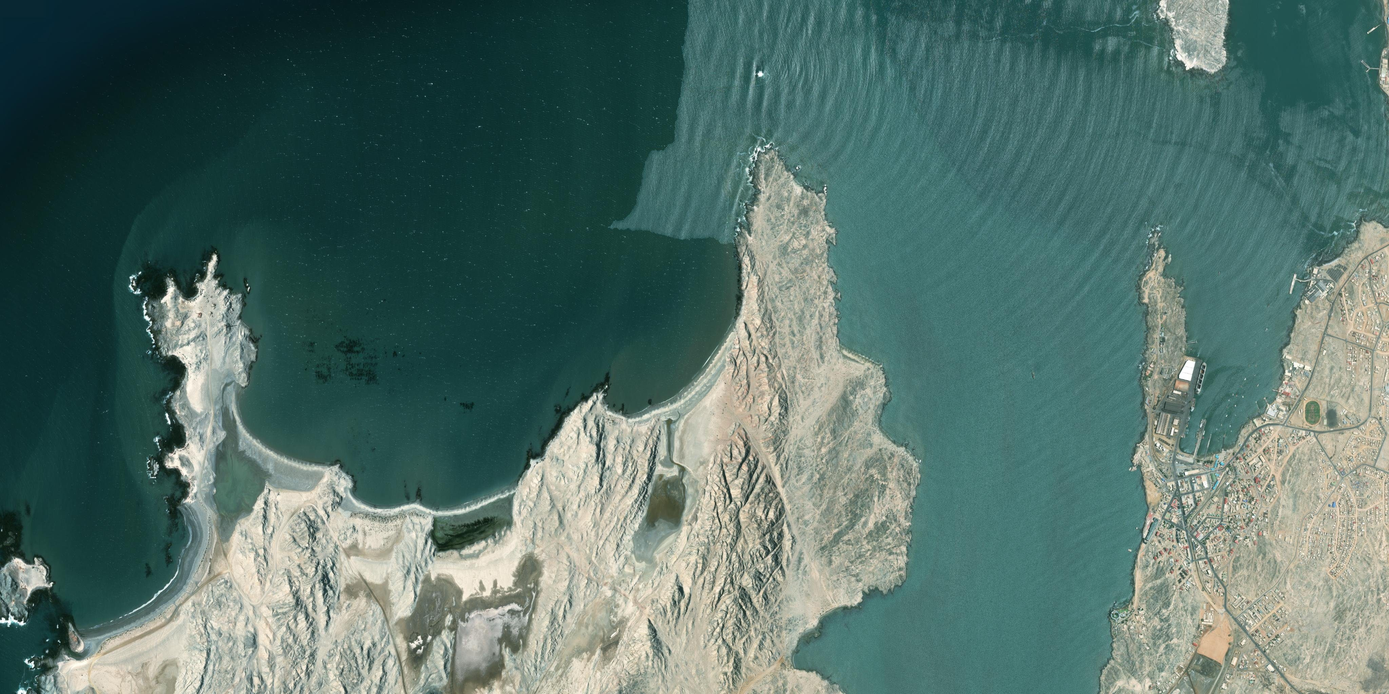
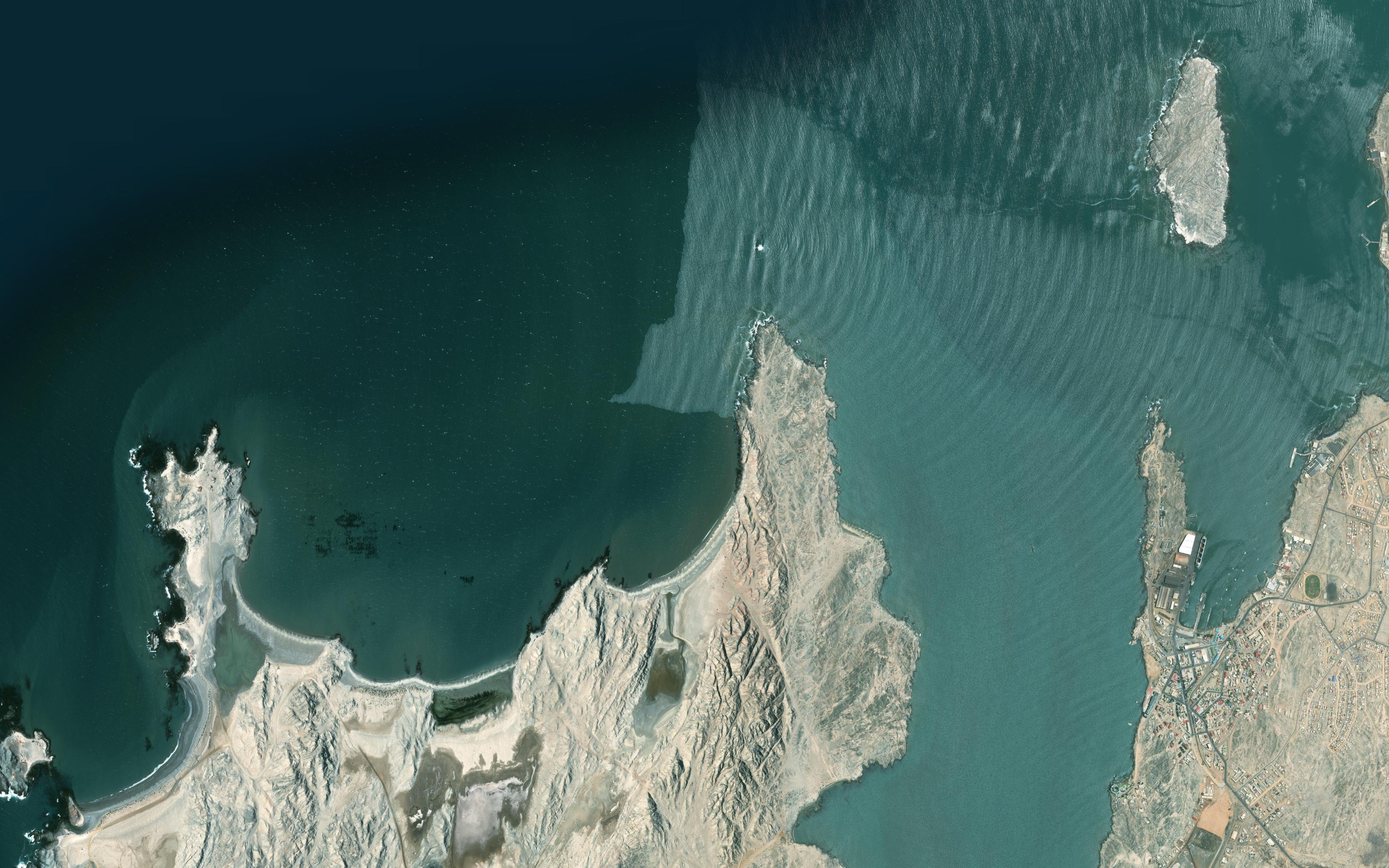
Sonar viewer: start view centred on Kelp Blue with Shearwater Bay behind, landmark labels (Lüderitz, Shark Island, Penguin Island, Diaz Point, Namib Desert), wide image extended north

diff --git a/public/missions/namibia-2026/sonar/index.html b/public/missions/namibia-2026/sonar/index.html
@@ -255,13 +255,18 @@ function dzcol(d){if(d>0){const t=Math.min(1,d/2.5);return[.55+.45*t,.55-.35*t,.
    const [x0,z0]=P(m.n,m.w),[x1,z1]=P(m.s,m.e);areaPlane.scale.set(x1-x0,z1-z0,1);areaPlane.position.set((x0+x1)/2,-0.05,(z0+z1)/2);
    // place labels: minimal pin (thin black stick, small ball on top), white name in Inter Tight (NODE brand), lime caption in JetBrains Mono, no outlines
    const drawPlace=p=>{const c=document.createElement('canvas');c.width=1024;c.height=256;const g=c.getContext('2d');
-    g.strokeStyle='#111';g.lineWidth=5;g.lineCap='round';g.beginPath();g.moveTo(30,56);g.lineTo(30,250);g.stroke();
-    g.beginPath();g.arc(30,40,15,0,7);g.fillStyle='#111';g.fill();
-    g.font='600 64px "Inter Tight",Inter,Helvetica,Arial';g.fillStyle='#fff';g.fillText(p.name,66,96);
-    g.font='700 34px "JetBrains Mono",ui-monospace,monospace';if('letterSpacing' in g)g.letterSpacing='4px';g.fillStyle=NODE_ACCENT;g.fillText((p.sub||'').toUpperCase(),68,146);
+    if(p.pin===false){ // area name (a desert, a region): spaced capitals, no pin, centred on the spot
+     g.font='500 54px "Inter Tight",Inter,Helvetica,Arial';if('letterSpacing' in g)g.letterSpacing='14px';g.fillStyle='rgba(255,255,255,.92)';g.textAlign='center';g.fillText(p.name.toUpperCase(),512,148);
+     const sp=new THREE.Sprite(new THREE.SpriteMaterial({map:new THREE.CanvasTexture(c),depthTest:false,transparent:true,sizeAttenuation:false}));
+     const h=.1*(+p.size||1);sp.scale.set(h*4,h,1);sp.center.set(.5,.5);sp.renderOrder=12;const [x,z]=P(p.lat,p.lon);sp.position.set(x,0.3,z);sp.userData={near:+p.near||0};places.add(sp);return [x,z]}
+    const L=p.side==='left',px=L?994:30; // side 'left': text to the left of the pin (when two places line up)
+    g.strokeStyle='#111';g.lineWidth=5;g.lineCap='round';g.beginPath();g.moveTo(px,56);g.lineTo(px,250);g.stroke();
+    g.beginPath();g.arc(px,40,15,0,7);g.fillStyle='#111';g.fill();g.textAlign=L?'right':'left';
+    g.font='600 64px "Inter Tight",Inter,Helvetica,Arial';g.fillStyle='#fff';g.fillText(p.name,L?958:66,96);
+    g.font='700 34px "JetBrains Mono",ui-monospace,monospace';if('letterSpacing' in g)g.letterSpacing='4px';g.fillStyle=NODE_ACCENT;if(p.sub)g.fillText(p.sub.toUpperCase(),L?956:68,146);
     const sp=new THREE.Sprite(new THREE.SpriteMaterial({map:new THREE.CanvasTexture(c),depthTest:false,transparent:true,sizeAttenuation:false}));
     const h=.1*(+p.size||1);sp.scale.set(h*4,h,1);
-    sp.center.set(30/1024,6/256);sp.renderOrder=12;const [x,z]=P(p.lat,p.lon);sp.position.set(x,0.3,z);sp.userData={near:+p.near||0};places.add(sp);return [x,z]};
+    sp.center.set(px/1024,6/256);sp.renderOrder=12;const [x,z]=P(p.lat,p.lon);sp.position.set(x,0.3,z);sp.userData={near:+p.near||0};places.add(sp);return [x,z]};
    Promise.all([document.fonts.load('600 64px "Inter Tight"'),document.fonts.load('700 34px "JetBrains Mono"')]).catch(()=>{})
     .then(()=>m.places.forEach(p=>{const xz=drawPlace(p);if(/shearwater/i.test(p.name))bay=xz;if(/kelp blue/i.test(p.name))kelpXZ=xz}));
    // fixed size on screen, set per place ("size" in area_sat.json); "near" fades a label out when zoomed in closer than that
@@ -391,6 +396,7 @@ function dzcol(d){if(d>0){const t=Math.min(1,d/2.5);return[.55+.45*t,.55-.35*t,.
  // camera presets (work for any run: framed on the middle of the data)
  const CAM={top:{t:[0,-2,0],c:[0,95,0.01]},sideS:{t:[0,-3,0],c:[0,1,95]},sideE:{t:[0,-3,0],c:[95,1,0]},persp:{t:[0,-4,0],c:[0,55,65]}};
  const camTo=v=>{ctr.target.set(...v.t);cam.position.set(...v.c);ctr.update()};
+ window._camEN=(te,tn,ce,cn,h)=>camTo({t:[te-cx,0,-(tn-cy)],c:[ce-cx,h,-(cn-cy)]}); // console helper: target and camera by east/north metres
  window._lookAtEN=(e,n,d=9,h=6)=>{const x=e-cx,z=-(n-cy),y=-1.5*world.scale.y;camTo({t:[x,y,z],c:[x+d*.7,y+h,z+d*.7]})}; // console helper: frame a spot by east/north metres
  document.querySelectorAll('button[data-p]').forEach(b=>b.onclick=()=>{window._setUnder(/^side/.test(b.dataset.p),true);camTo(CAM[b.dataset.p])});
  // ---- tools: slice + measure (two clicks on the map, picked on the water surface plane)
@@ -549,7 +555,7 @@ function dzcol(d){if(d>0){const t=Math.min(1,d/2.5);return[.55+.45*t,.55-.35*t,.
  // Francisco's baseline (24 Nov 2026)
  const BASE={style:'clay',surf:'mesh',base:'seabed',objects:false,structures:false,water:false,kmin:15,grid:true,sat:true,satOp:45,track:false,beam:false,boatTrueSize:false,ex:2,ps:0.75,slw:0.5,cam:{t:[-9.55,-0.78,1.61],c:[71.39,35.53,6.61]}};
  // start (and reset) on an overview of Luderitz: the Kelp Blue pin in front, Shearwater Bay behind
- BASE.cam=(()=>{const x=-2400-cx,z=-(300-cy);return{t:[x,0,z],c:[x+3640,1500,z+3640]}})();
+ BASE.cam=(()=>{const P2=(e,n)=>[e-cx,-(n-cy)],[tx,tz]=P2(-1700,250),[qx,qz]=P2(2500,-1000);return{t:[tx,0,tz],c:[qx,1250,qz]}})();
  const chk=(id,v)=>{const e=document.getElementById(id);if(e&&e.checked!==v)e.click()};
  function applySettings(s){document.querySelector(`input[name=base][value=${s.base}]`).click();
   chk('o',s.objects);chk('hl',s.structures);chk('k',s.water);set('#kmin',s.kmin,'input');chk('g',s.grid);chk('sat',!!s.sat);set('#satOp',s.satOp||45,'input');chk('t',s.track);chk('beam',s.beam);chk('bsize',s.boatTrueSize);
